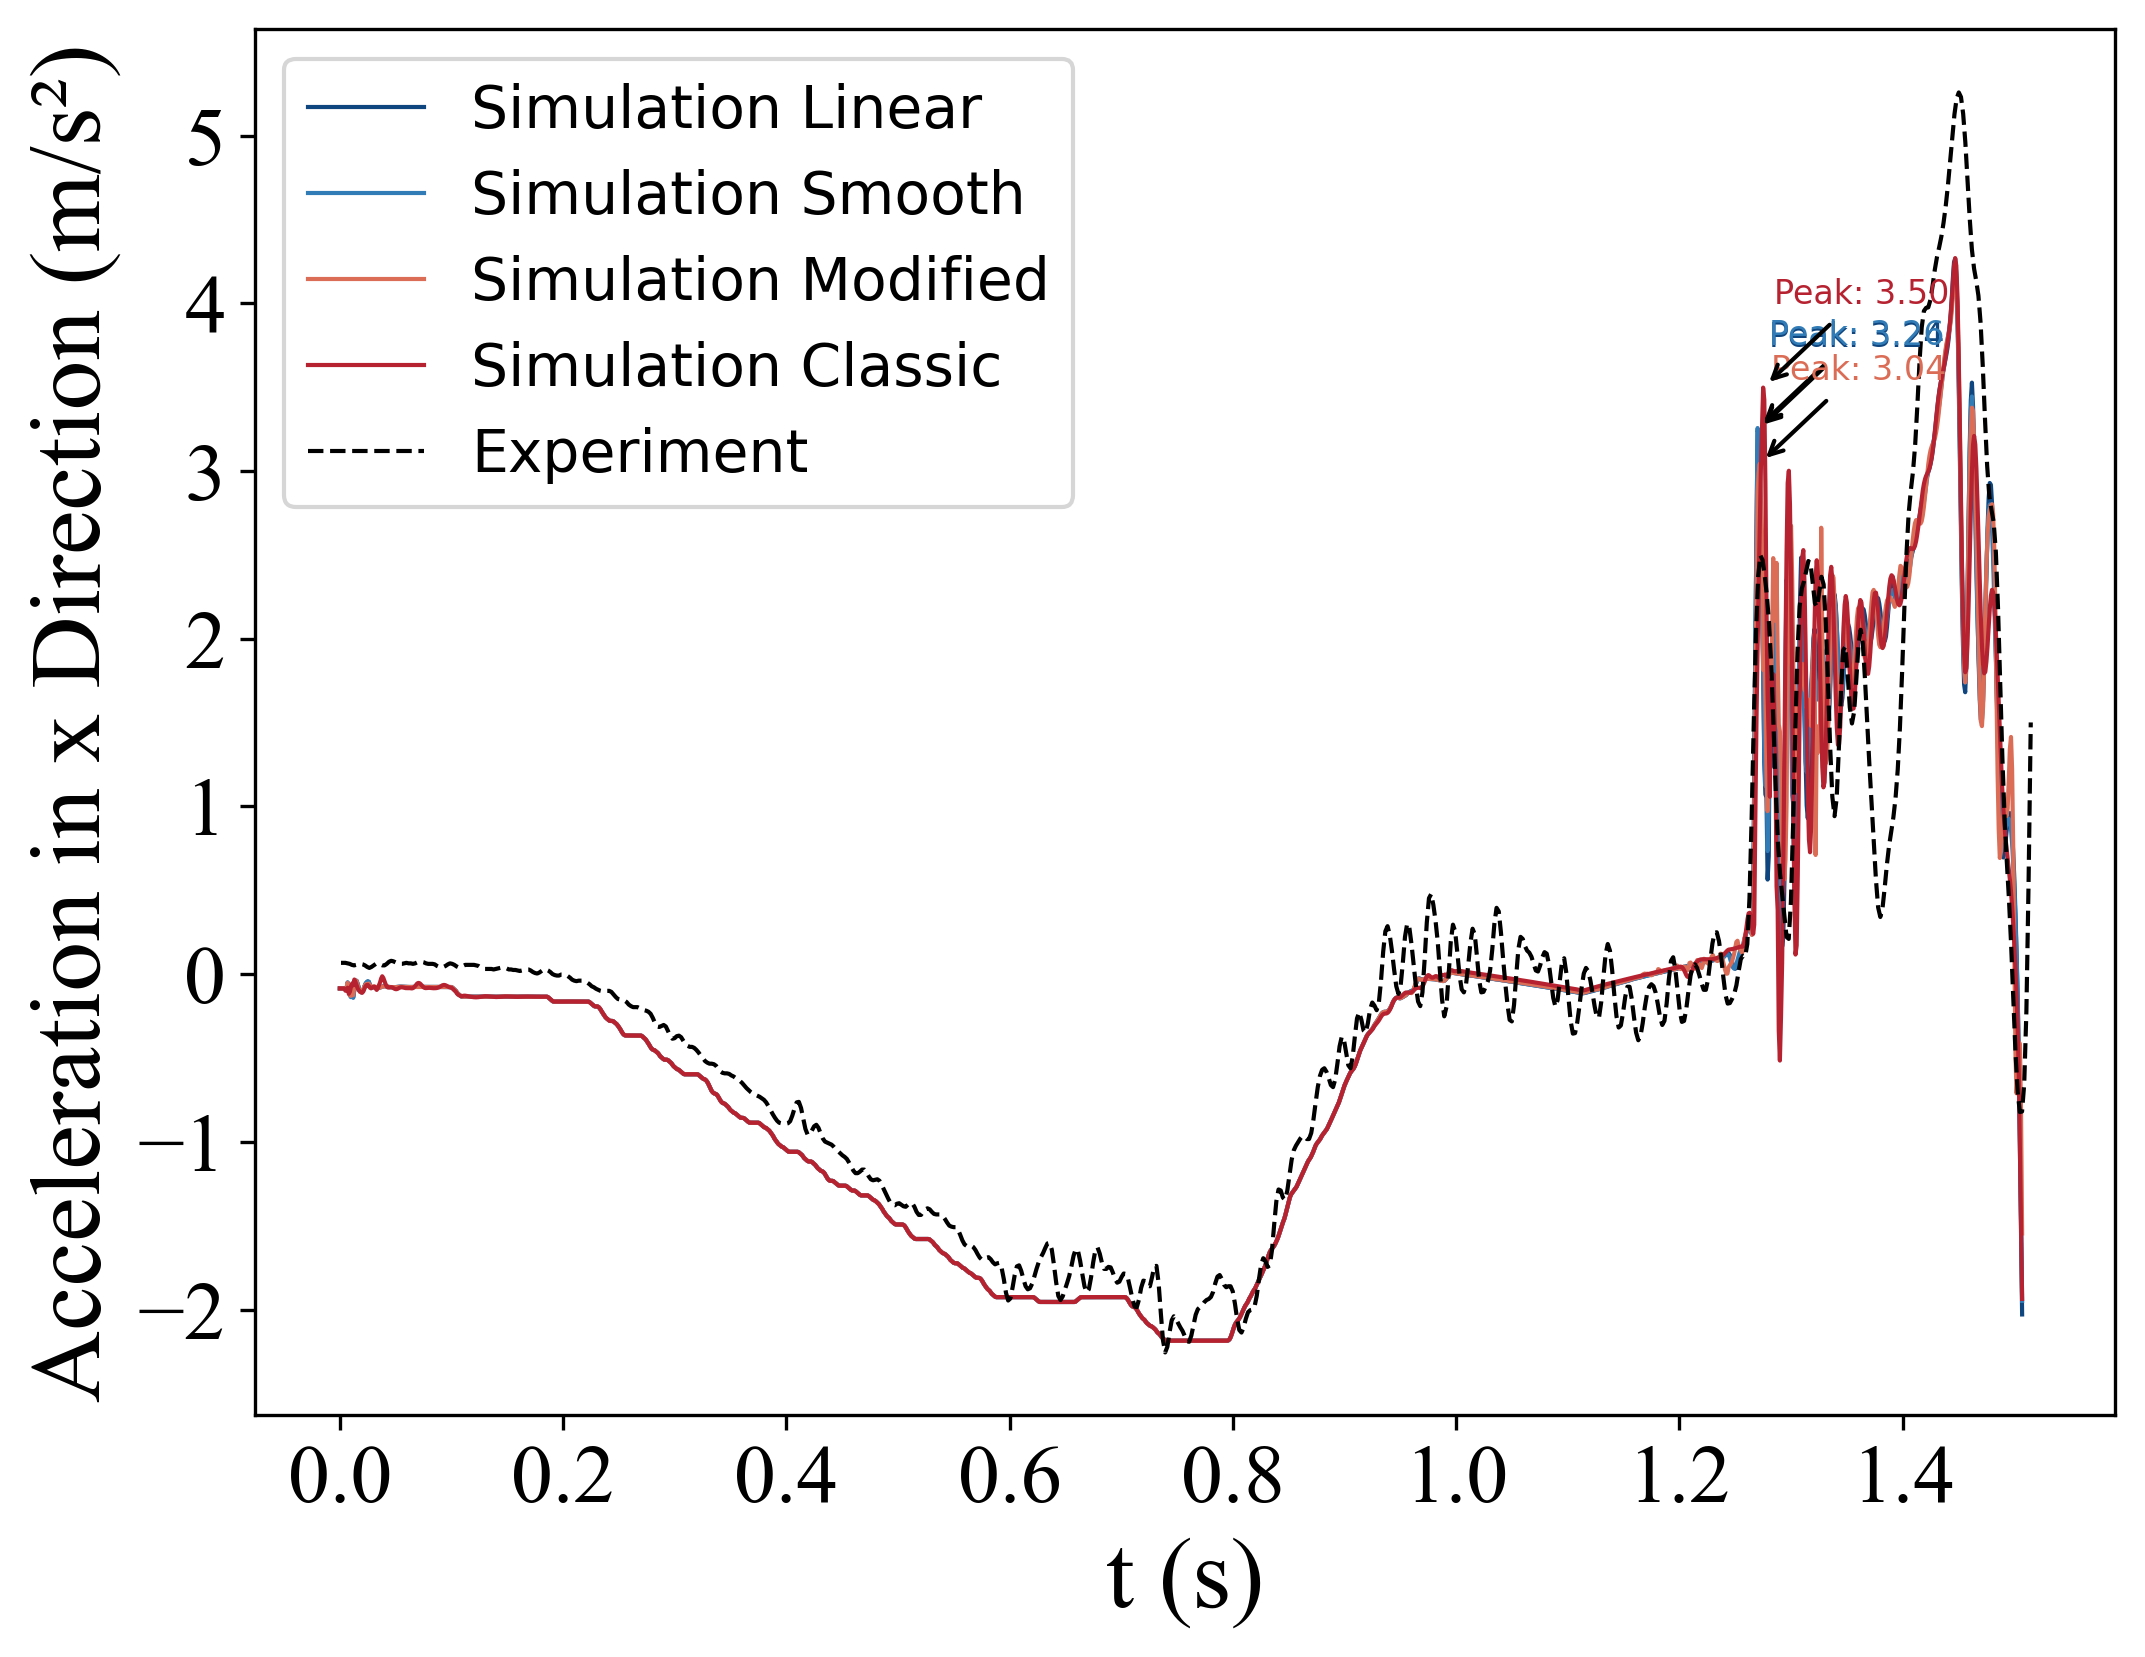
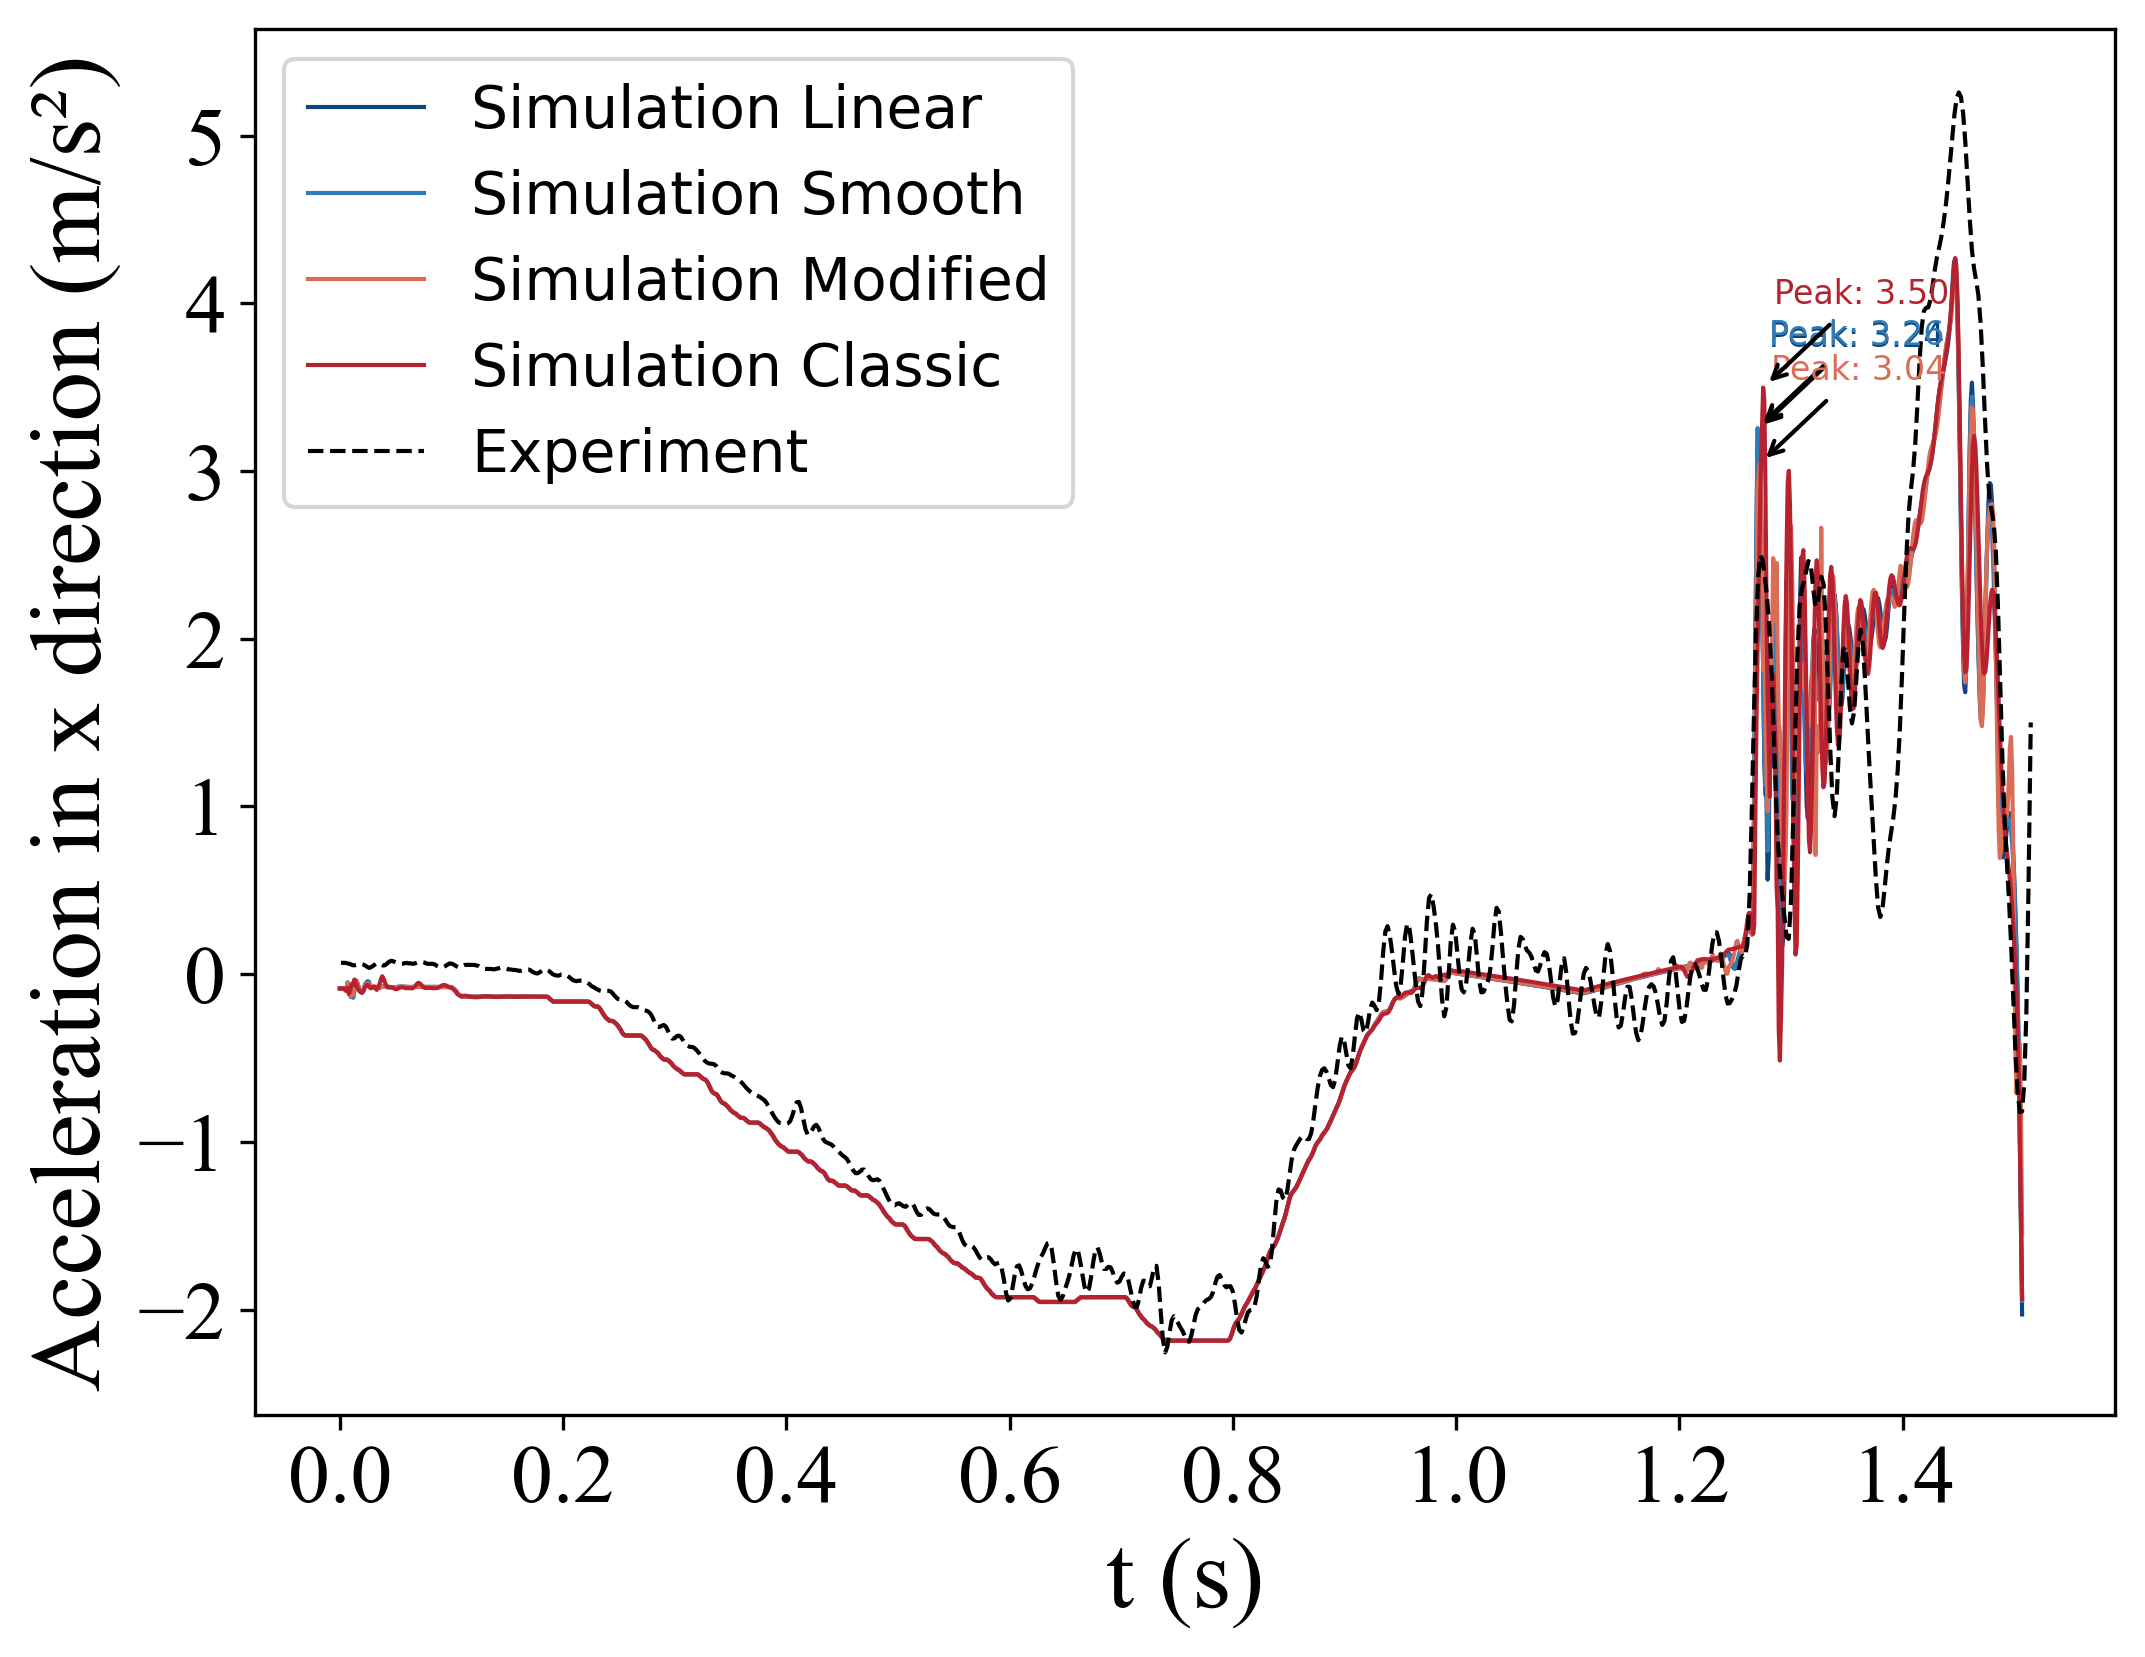
Please enter the commit message for your changes. Lines starting with '#' will be ignored, and an empty message aborts the commit.
On branch main
Your branch is up to date with 'origin/main'.

Changes to be committed:
	modified:   .vscode/settings.json
	modified:   MBD.jl/src/door240_renew_entry.jl
	modified:   Post/A16/f/accx_28_3.py
	modified:   Post/A16/f/accx_28_4.py
	modified:   Post/A16/f/forcemethod.py
	modified:   Post/A16/f/group_by_third_char_3Flores.png
	modified:   Post/A16/f/group_by_third_char_4Hunt-Crossley.png
	modified:   Post/A16/f/group_by_third_char_5Lankarani-Nikravesh.png
	modified:   Post/A16/f/group_by_third_char_6Herbert-McWhannell.png
	modified:   Post/A16/f/group_by_third_char_7Gonthier.png
	modified:   Post/A16/f/group_by_third_char_8Hu-Guo.png
	modified:   Post/A16/f/group_by_third_char_9Gharib-Hurmuzlu.png
	modified:   Post/A16/f/grouped_subplots.png
	modified:   Post/A16/validation_acc/111.py
	modified:   Post/A16/validation_acc/accy.py
	modified:   Post/A16/validation_acc/valiacc.png
	new file:   Post/A16/validation_acc/valiacc_.png
	modified:   Post/A16/validation_acc/valiaccy.png
	new file:   Post/A16/validation_acc/valiaccy_.png

Changed region(s): [[0.0, 0.0308, 0.0625, 0.831]]

diff --git a/Post/A16/f/forcemethod.py b/Post/A16/f/forcemethod.py
@@ -68,23 +68,32 @@ def run_plotting(fn, data_csv_file, output_folder, dpi=300):
     plot_all_columns_with_generated_time(fn, data_csv_file, output_folder, selected_colors, selected_styles, dpi)
 
 if __name__ == "__main__":
+    folder_path = os.getenv("ONEDRIVE")
     matplotlib.rcParams['font.family'] = 'Times New Roman'
-    data_csv_file = r"D:\OneDrive\Articles\10.Working\[D21][20211009]ContactMechanics\MBD.jl\plots\adams2\7\GFO_LG U4_export.csv"  # Replace with your actual data CSV file path
-    output_folder = r"D:\OneDrive\Articles\10.Working\[D21][20211009]ContactMechanics\MBD.jl\Post\A16\f/"  # Replace with your desired output folder path
+    # Replace with your actual data CSV file path
+    output_folder = os.path.join(folder_path, r"Articles\10.Working\[D21][20211009]ContactMechanics\MBD.jl\Post\A16\f/")
+
+    data_csv_file = r"\plots\adams2\7\GFO_LG U4_export.csv" 
+    data_csv_file=os.path.join(folder_path,r"Articles\10.Working\[D21][20211009]ContactMechanics\MBD.jl",data_csv_file)
     run_plotting('LG', data_csv_file, output_folder, dpi=300)
 
-    data_csv_file = r"D:\OneDrive\Articles\10.Working\[D21][20211009]ContactMechanics\MBD.jl\plots\adams2\7\GFO_LG U3_export.csv"  # Replace with your actual data CSV file path
+    data_csv_file = r"\plots\adams2\7\GFO_LG U3_export.csv"  # Replace with your actual data CSV file path
+    data_csv_file=os.path.join(folder_path,r"Articles\10.Working\[D21][20211009]ContactMechanics\MBD.jl",data_csv_file)
     run_plotting('LG_Y', data_csv_file, output_folder, dpi=300)
     
-    data_csv_file = r"D:\OneDrive\Articles\10.Working\[D21][20211009]ContactMechanics\MBD.jl\plots\adams2\7\GFO_MG U4_export.csv"  # Replace with your actual data CSV file path
+    data_csv_file = r"\plots\adams2\7\GFO_MG U4_export.csv"  # Replace with your actual data CSV file path
+    data_csv_file=os.path.join(folder_path,r"Articles\10.Working\[D21][20211009]ContactMechanics\MBD.jl",data_csv_file)
     run_plotting('MG', data_csv_file, output_folder, dpi=300)
 
-    data_csv_file = r"D:\OneDrive\Articles\10.Working\[D21][20211009]ContactMechanics\MBD.jl\plots\adams2\7\GFO_MG U3_export.csv"  # Replace with your actual data CSV file path
+    data_csv_file = r"\plots\adams2\7\GFO_MG U3_export.csv"  # Replace with your actual data CSV file path
+    data_csv_file=os.path.join(folder_path,r"Articles\10.Working\[D21][20211009]ContactMechanics\MBD.jl",data_csv_file)
     run_plotting('MG_Y', data_csv_file, output_folder, dpi=300)
     
-    data_csv_file = r"D:\OneDrive\Articles\10.Working\[D21][20211009]ContactMechanics\MBD.jl\plots\adams2\7\GFO_MF U3_export.csv"  # Replace with your actual data CSV file path
+    data_csv_file = r"\plots\adams2\7\GFO_MF U3_export.csv"  # Replace with your actual data CSV file path
+    data_csv_file=os.path.join(folder_path,r"Articles\10.Working\[D21][20211009]ContactMechanics\MBD.jl",data_csv_file)
     run_plotting('MF', data_csv_file, output_folder, dpi=300)
     
-    data_csv_file = r"D:\OneDrive\Articles\10.Working\[D21][20211009]ContactMechanics\MBD.jl\plots\adams2\7\GFO_LF U3_export.csv"  # Replace with your actual data CSV file path
+    data_csv_file = r"\plots\adams2\7\GFO_LF U3_export.csv"  # Replace with your actual data CSV file path
+    data_csv_file=os.path.join(folder_path,r"Articles\10.Working\[D21][20211009]ContactMechanics\MBD.jl",data_csv_file)
     run_plotting('LF', data_csv_file, output_folder, dpi=300)
 # 

diff --git a/Post/A16/f/accx_28_4.py b/Post/A16/f/accx_28_4.py
@@ -18,8 +18,10 @@ scaling_dict = {
 }
 
 # Define paths
-path1 = r"D:\OneDrive\Articles\10.Working\[D21][20211009]ContactMechanics\MBD.jl\plots\adams2\MR_door (run 29)_out2.csv"
-path2 = r"D:\OneDrive\Articles\10.Working\[D21][20211009]ContactMechanics\MBD.jl\plots\adams2\7\request_ACC_door U2_export.csv"
+folder_path = os.getenv("ONEDRIVE")
+
+path1 = os.path.join(folder_path,r"Articles\10.Working\MBD.jl\plots\adams2\MR_door (run 29)_out2.csv")
+path2 = os.path.join(folder_path,r"Articles\10.Working\MBD.jl\plots\adams2\7\request_ACC_door U2_export.csv")
 
 # Load data
 df1 = pd.read_csv(path1)
@@ -188,7 +190,7 @@ def create_and_save_figures(processed_data1, processed_data2, selected_columns2)
                                 fontsize=8, color=style.get('color'))
             ax.plot(processed_data1['t_adj'], processed_data1['acc@A7_X.RN_6'], label='Experiment', color='k', linewidth=1, linestyle='--')
             ax.set_xlabel("t (s)", fontdict=textstyle)
-            ax.set_ylabel("Acceleration in x Direction (m/s²)", fontdict=textstyle)
+            ax.set_ylabel("Acceleration in x direction (m/s²)", fontdict=textstyle)
             plt.xticks(fontsize=tick_fontsize, fontfamily=tick_font)
             plt.yticks(fontsize=tick_fontsize, fontfamily=tick_font)
             ax.legend(fontsize=14)

diff --git a/Post/A16/validation_acc/accy.py b/Post/A16/validation_acc/accy.py
@@ -18,8 +18,8 @@ scaling_dict = {
 col=[(138/256, 201/256, 38/256),
     "#C1121F","#003049"]
 # Define paths
-path1 = r"D:\OneDrive\Articles\10.Working\[D21][20211009]ContactMechanics\MBD.jl\plots\adams2\MR_door (run 29)_out2.csv"
-path2 = r"D:\OneDrive\Articles\10.Working\[D21][20211009]ContactMechanics\MBD.jl\plots\adams2\7\request_ACC_door U3_export.csv"
+path1 = r"C:\Users\lovca\OneDrive\Articles\10.Working\MBD.jl\plots\adams2\MR_door (run 29)_out2.csv"
+path2 = r"C:\Users\lovca\OneDrive\Articles\10.Working\MBD.jl\plots\adams2\7\request_ACC_door U3_export.csv"
 
 # Load data
 df1 = pd.read_csv(path1)
@@ -90,7 +90,7 @@ def create_figure(processed_data1, processed_data2, selected_columns1, selected_
     ax.plot(processed_data1['t_adj'], processed_data1['acc@A7_Y.RN_6'], label=f'Experiment', linestyle='--', color='k',linewidth=1)
     ax.plot(processed_data2['t_adj'], processed_data2['413.asc'], label=f'Simulation',color='k',linewidth=1)
     ax.set_xlabel("Time (s)")
-    ax.set_ylabel("Acceleration in y Direction (m/s²)", fontdict=textstyle)
+    ax.set_ylabel("Acceleration in y direction (m/s²)", fontdict=textstyle)
     ax.legend(fontsize=18)
     plt.xticks(fontsize=tick_fontsize, fontfamily=tick_font)
     plt.yticks(fontsize=tick_fontsize, fontfamily=tick_font)

diff --git a/Post/A16/validation_acc/111.py b/Post/A16/validation_acc/111.py
@@ -17,8 +17,8 @@ scaling_dict = {
 
 
 # Define paths
-path1 = r"D:\OneDrive\Articles\10.Working\[D21][20211009]ContactMechanics\MBD.jl\plots\adams2\MR_door (run 29)_out2.csv"
-path2 = r"D:\OneDrive\Articles\10.Working\[D21][20211009]ContactMechanics\MBD.jl\plots\adams2\7\request_ACC_door U2_export.csv"
+path1 = r"C:\Users\lovca\OneDrive\Articles\10.Working\MBD.jl\plots\adams2\MR_door (run 29)_out2.csv"
+path2 = r"C:\Users\lovca\OneDrive\Articles\10.Working\MBD.jl\plots\adams2\7\request_ACC_door U2_export.csv"
 
 # Load data
 df1 = pd.read_csv(path1)
@@ -89,7 +89,7 @@ def create_figure(processed_data1, processed_data2, selected_columns1, selected_
     ax.plot(processed_data1['t_adj'], processed_data1['acc@A7_X.RN_6'], label=f'Experiment', color='k',linewidth=1, linestyle='--')
     ax.plot(processed_data2['t_adj'], processed_data2['413.asc'], label=f'Simulation',color='k',linewidth=1)
     ax.set_xlabel("Time (s)")
-    ax.set_ylabel("Acceleration in x Direction (m/s²)", fontdict=textstyle)
+    ax.set_ylabel("Acceleration in x direction (m/s²)", fontdict=textstyle)
     ax.legend(fontsize=18)
     plt.xticks(fontsize=tick_fontsize, fontfamily=tick_font)
     plt.yticks(fontsize=tick_fontsize, fontfamily=tick_font)

diff --git a/Post/A16/f/accx_28_3.py b/Post/A16/f/accx_28_3.py
@@ -17,9 +17,10 @@ scaling_dict = {
     'Strain@B3_4.RN_6': 0.2455,
 }
 
-# Define paths
-path1 = r"D:\OneDrive\Articles\10.Working\[D21][20211009]ContactMechanics\MBD.jl\plots\adams2\MR_door (run 29)_out2.csv"
-path2 = r"D:\OneDrive\Articles\10.Working\[D21][20211009]ContactMechanics\MBD.jl\plots\adams2\7\request_ACC_door U2_export.csv"
+folder_path = os.getenv("ONEDRIVE")
+
+path1 = os.path.join(folder_path,r"Articles\10.Working\MBD.jl\plots\adams2\MR_door (run 29)_out2.csv")
+path2 = os.path.join(folder_path,r"Articles\10.Working\MBD.jl\plots\adams2\7\request_ACC_door U2_export.csv")
 
 # Load data
 df1 = pd.read_csv(path1)
@@ -166,7 +167,7 @@ def create_and_save_figures(processed_data1, processed_data2, selected_columns2)
 
             # ax.set_title(f"Grouped by Third Character: {third_char}", fontsize=20)
             ax.set_xlabel("t (s)", fontdict=textstyle)
-            ax.set_ylabel("Acceleration in x Direction (m/s²)", fontdict=textstyle)
+            ax.set_ylabel("Acceleration in x direction (m/s²)", fontdict=textstyle)
             
             # Set tick labels for each axis
             ax.tick_params(axis='both', labelsize=tick_fontsize)  # Set label size
